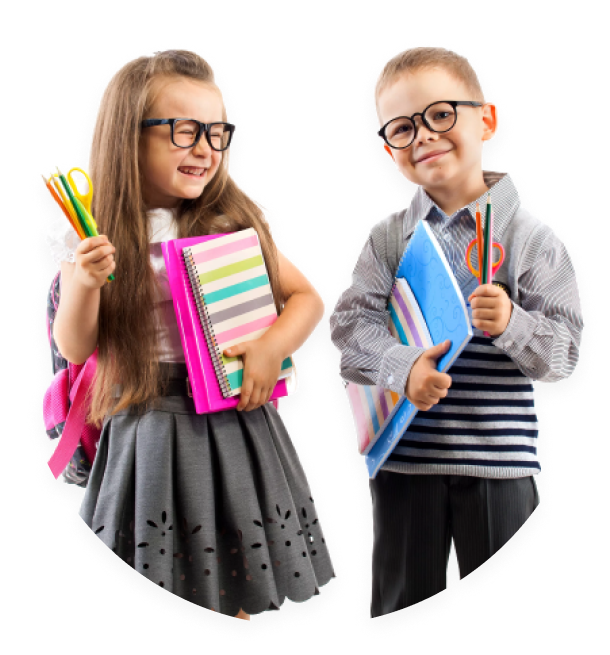
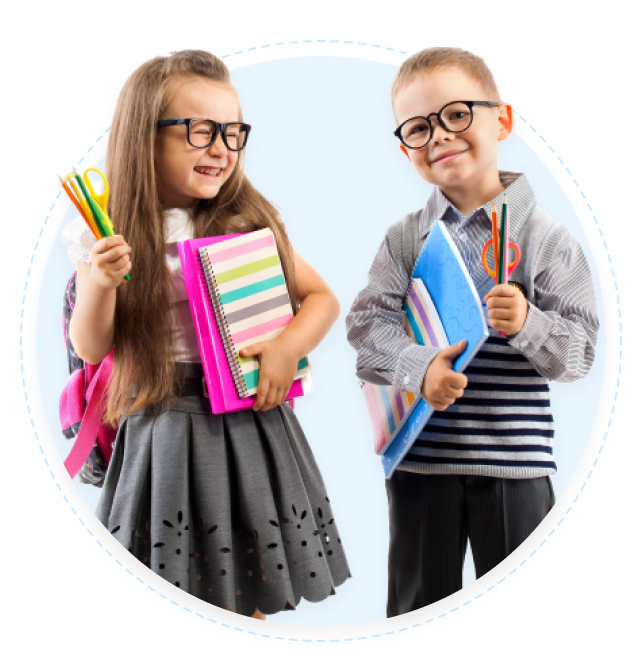
deleted some pics, added pic groups of kids, added style for header__banner

diff --git a/assets/styles/_section_1.scss b/assets/styles/_section_1.scss
@@ -70,13 +70,9 @@
   .header__banner {
     grid-template-rows: 4fr 1fr 2fr;
     gap: 50px;
-    // background-image: url("../header-pics/header__banner-kids.png"),
-    //   url("../header-pics/header__banner-dotted-ellipse.svg"),
-    //   url("../header-pics/header__banner-ellipse.svg");
-    // background-repeat: no-repeat;
-    background: url("../header-pics/header__banner-kids.png") content-box right
-      no-repeat;
-    // background-size: 45%;
+    background: url("../header-pics/header__banner-kids.png") no-repeat right
+      top;
+    background-size: 44%;
 
     .header__banner-title {
       align-self: end;
